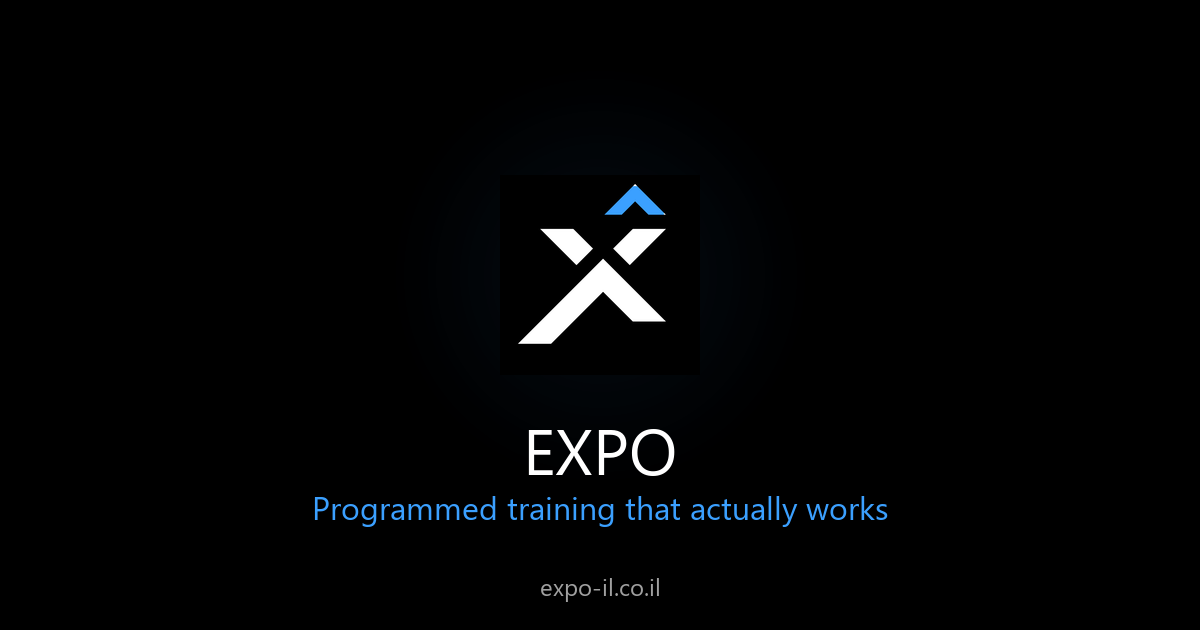
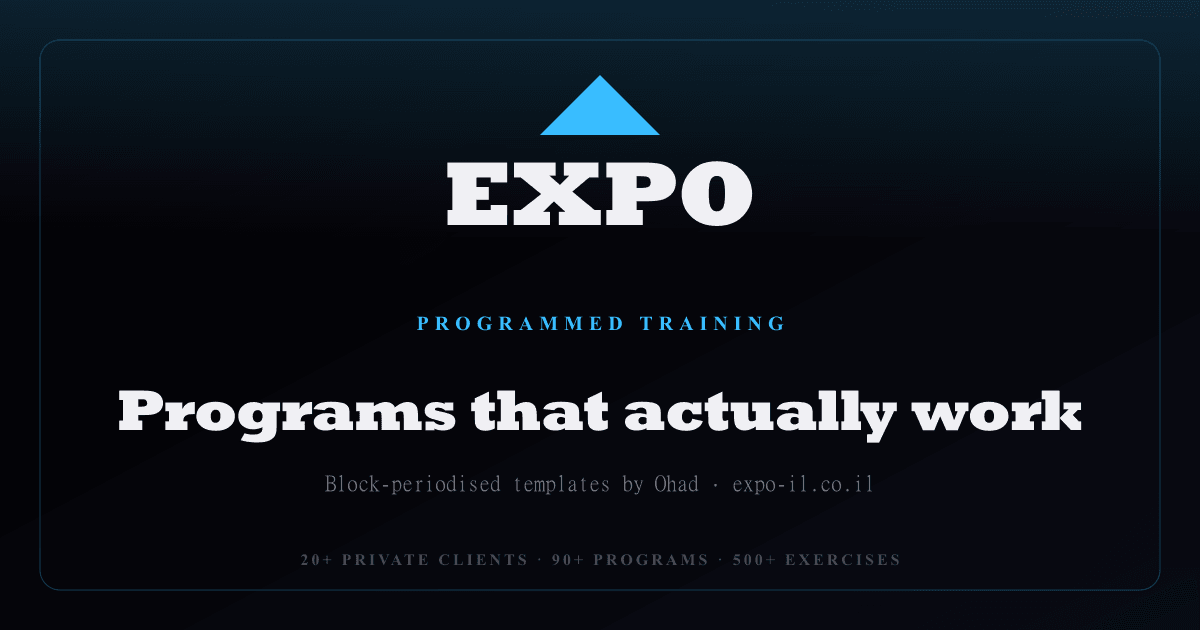
expo-il — home OG card matches the per-program style + sitewide WebSite/Organization JSON-LD.
generate-og-cards.mjs now also renders public/og-cover.png so the apex's link previews use the same visual ruling as the per-program cards (chevron + EXPO mark + PROGRAMMED TRAINING badge + headline + 20+/90+/500+ social-proof strip on a black gradient with the accent border).

index.html adds two JSON-LD blocks: WebSite (name, alternateName, inLanguage) so Google understands the brand and treats /he/en as one site, and Organization (founder, logo, sameAs Instagram) so Knowledge Panel / brand-card can populate. Per-program Product schema continues to be injected from src/App.jsx on the SPA detail route AND from generate-program-pages.mjs in the static /programs/<id>.html.

diff --git a/expo-il/index.html b/expo-il/index.html
@@ -46,6 +46,34 @@
   <link rel="preload" href="/expo-hero-logo.png"       as="image" fetchpriority="high"/>
 
   <link rel="stylesheet" href="/nord-fonts.css"/>
+
+  <!-- Sitewide structured data — tells Google / WhatsApp this is a real
+       brand with a specific operator + locale. Per-program Product schema
+       is injected client-side from src/App.jsx on the /#/programs/<id>
+       route, AND server-side in the static /programs/<id>.html pages. -->
+  <script type="application/ld+json">
+  {
+    "@context": "https://schema.org",
+    "@type": "WebSite",
+    "name": "EXPO",
+    "alternateName": "EXPO · Programmed Training",
+    "url": "https://expo-il.co.il",
+    "inLanguage": ["he", "en"]
+  }
+  </script>
+  <script type="application/ld+json">
+  {
+    "@context": "https://schema.org",
+    "@type": "Organization",
+    "name": "EXPO",
+    "url": "https://expo-il.co.il",
+    "logo": "https://expo-il.co.il/expo-hero-logo.png",
+    "founder": { "@type": "Person", "name": "Ohad Yossifoff" },
+    "sameAs": [
+      "https://www.instagram.com/ohadaptable/"
+    ]
+  }
+  </script>
   <style>
     *{margin:0;padding:0;box-sizing:border-box}
     html,body{background:#000000;color:#f0f0f4;font-family:'Nord','DM Sans',system-ui,sans-serif;-webkit-font-smoothing:antialiased}
